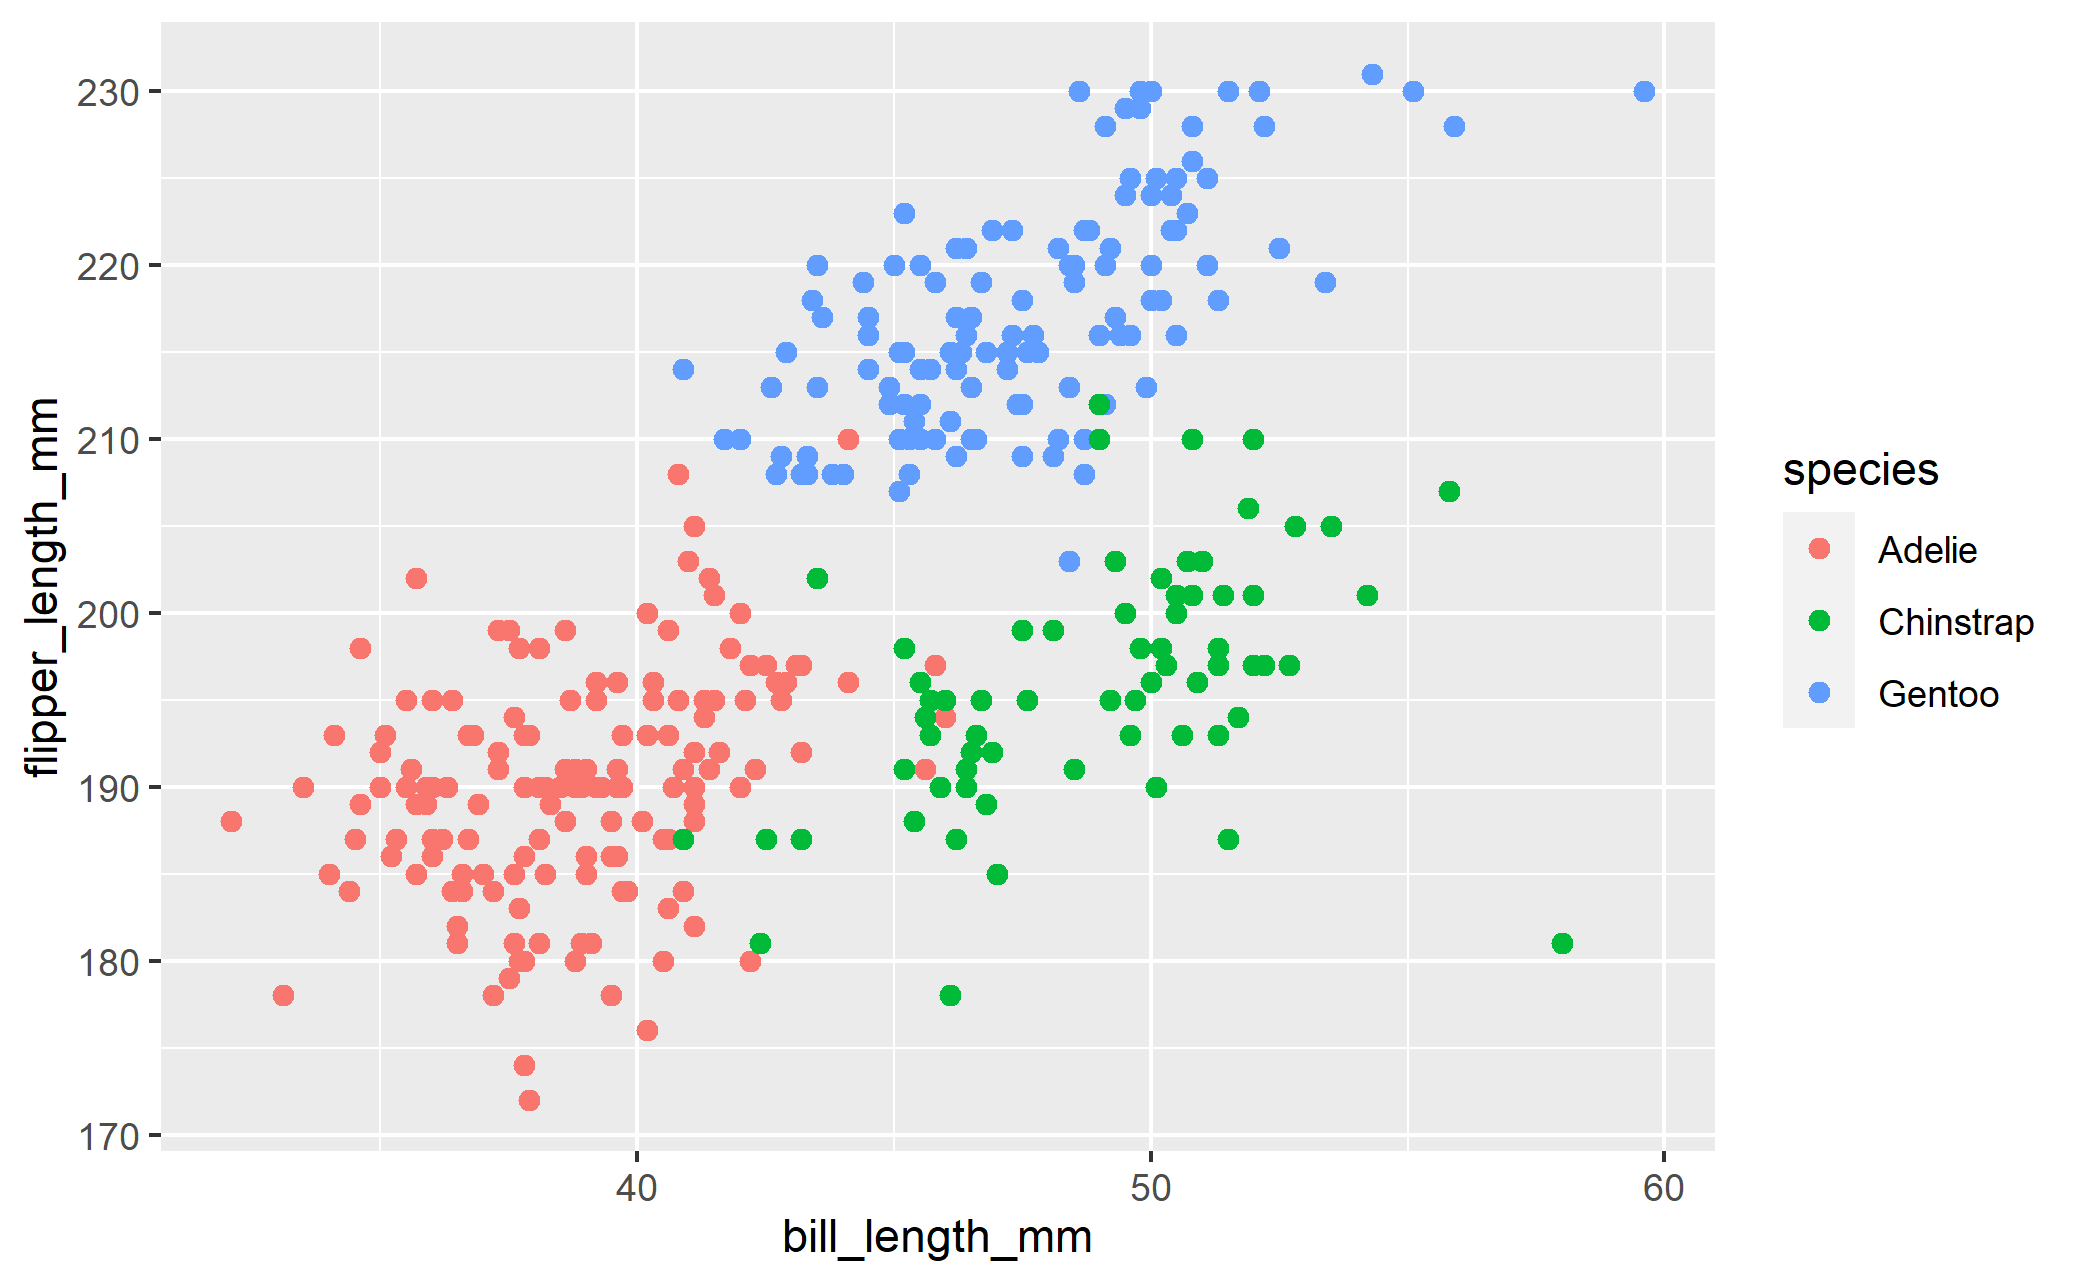
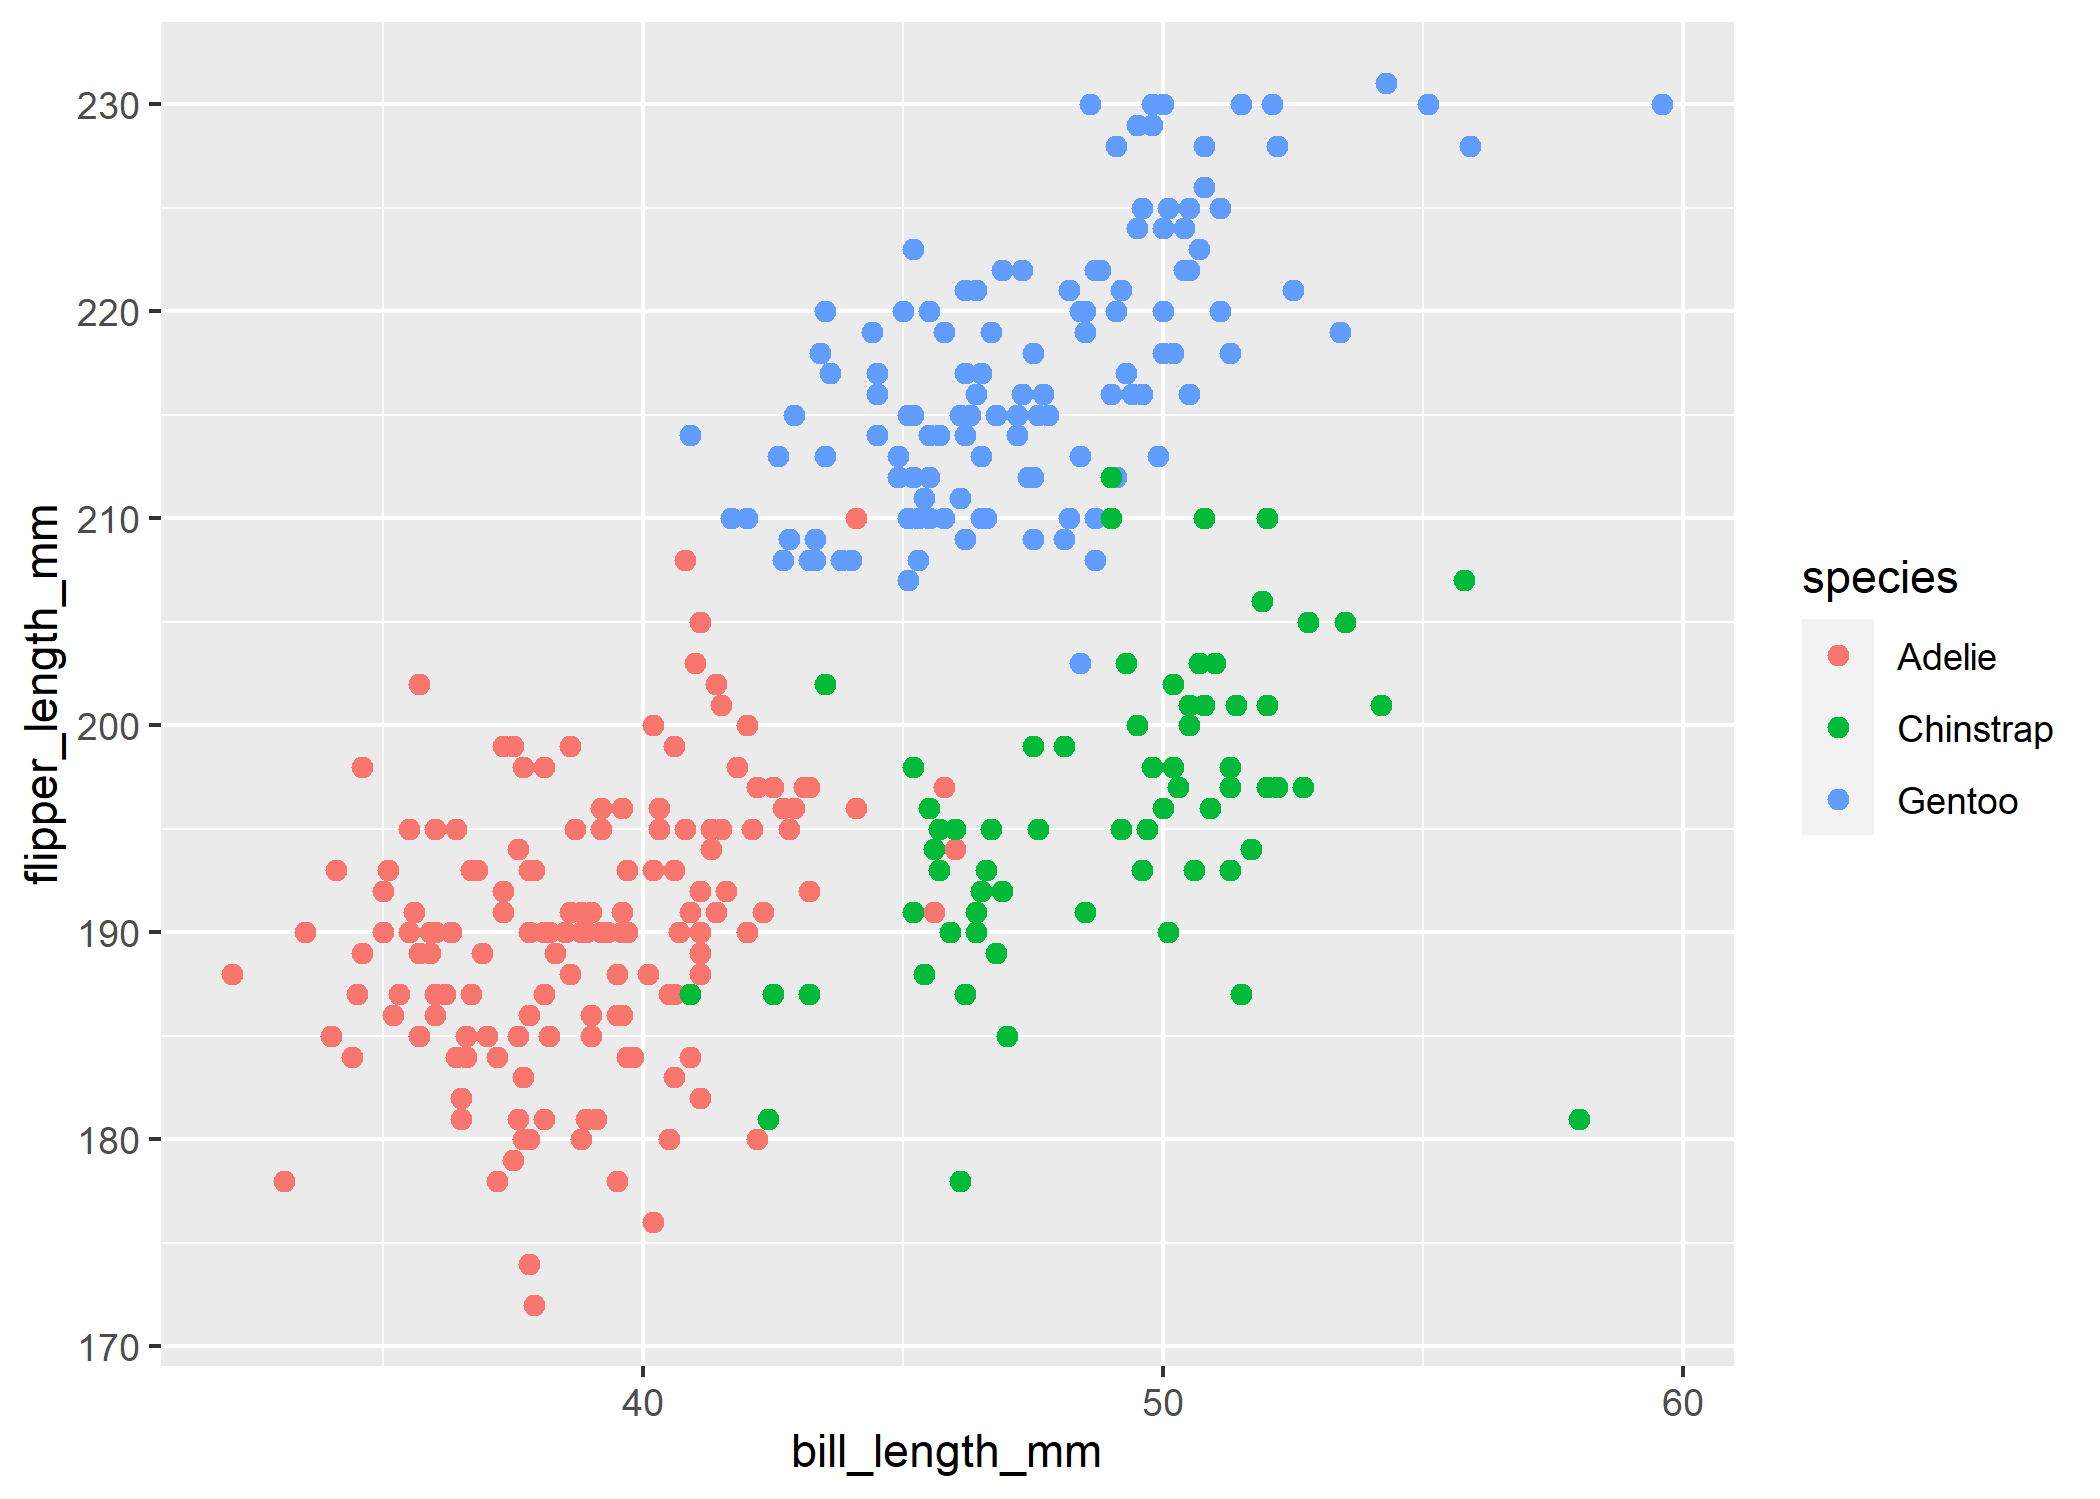
refine the codes of problem 2

diff --git a/p8105_hw1_zl2977.md b/p8105_hw1_zl2977.md
@@ -7,14 +7,14 @@ Zhourong Li zl2977
 library(tidyverse)
 ```
 
-    ## -- Attaching packages --------------------------------------------------------------------------------- tidyverse 1.3.0 --
+    ## -- Attaching packages -------------------------------------------------------------------- tidyverse 1.3.0 --
 
     ## √ ggplot2 3.3.2     √ purrr   0.3.4
     ## √ tibble  3.0.3     √ dplyr   1.0.2
     ## √ tidyr   1.1.2     √ stringr 1.4.0
     ## √ readr   1.3.1     √ forcats 0.5.0
 
-    ## -- Conflicts ------------------------------------------------------------------------------------ tidyverse_conflicts() --
+    ## -- Conflicts ----------------------------------------------------------------------- tidyverse_conflicts() --
     ## x dplyr::filter() masks stats::filter()
     ## x dplyr::lag()    masks stats::lag()
 
@@ -42,7 +42,7 @@ Take the mean of each variable in my data frame.
 mean(pull(prob1_df,samp))
 ```
 
-    ## [1] -0.2802937
+    ## [1] -0.4118337
 
 ``` r
 mean(pull(prob1_df,samp_gt_0))
@@ -113,10 +113,11 @@ data set. The mean flipper length is 200.9152047.
 ``` r
 plot_data<-data.frame(
   bill_length_mm=pull(penguins,bill_length_mm),
-  flipper_length_mm=pull(penguins,flipper_length_mm)
+  flipper_length_mm=pull(penguins,flipper_length_mm),
+  species=pull(penguins,species)
 )
 
-ggplot(plot_data,aes(x=bill_length_mm, y=flipper_length_mm, color=pull(penguins,species)))+
+ggplot(plot_data,aes(x=bill_length_mm, y=flipper_length_mm, color=species))+
   geom_point(size=2,shape=19)
 ```
 
